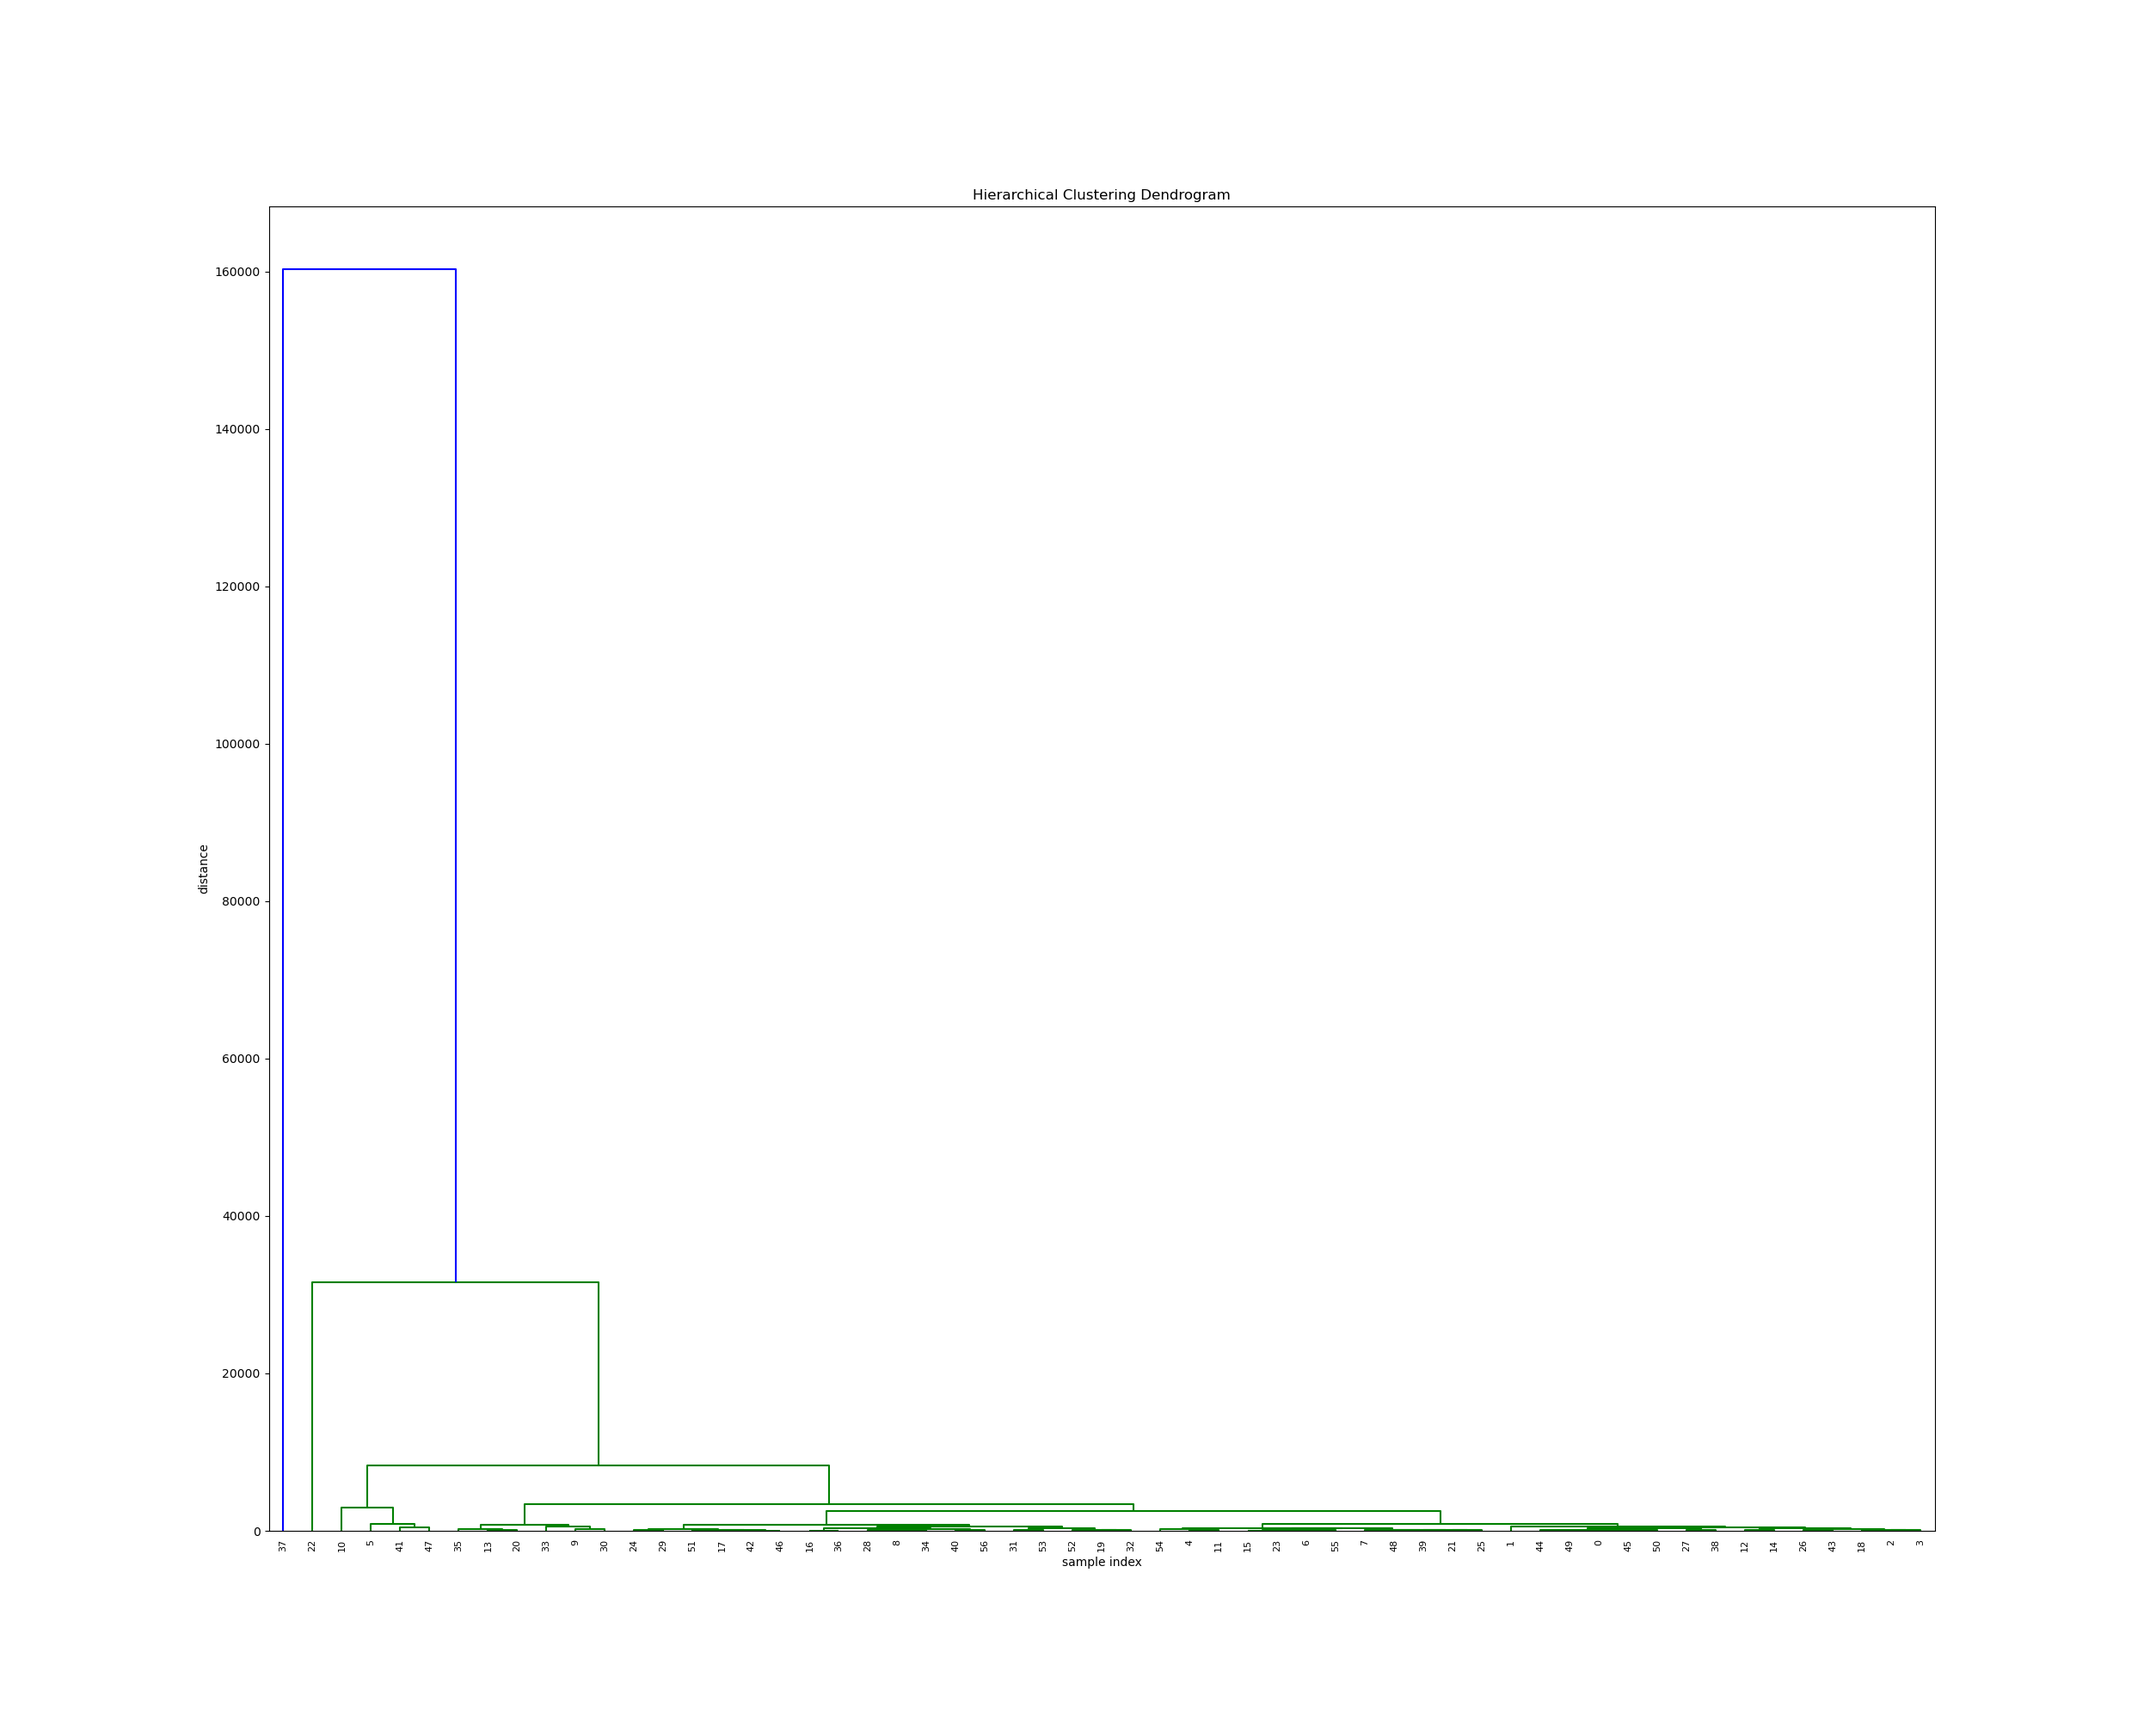
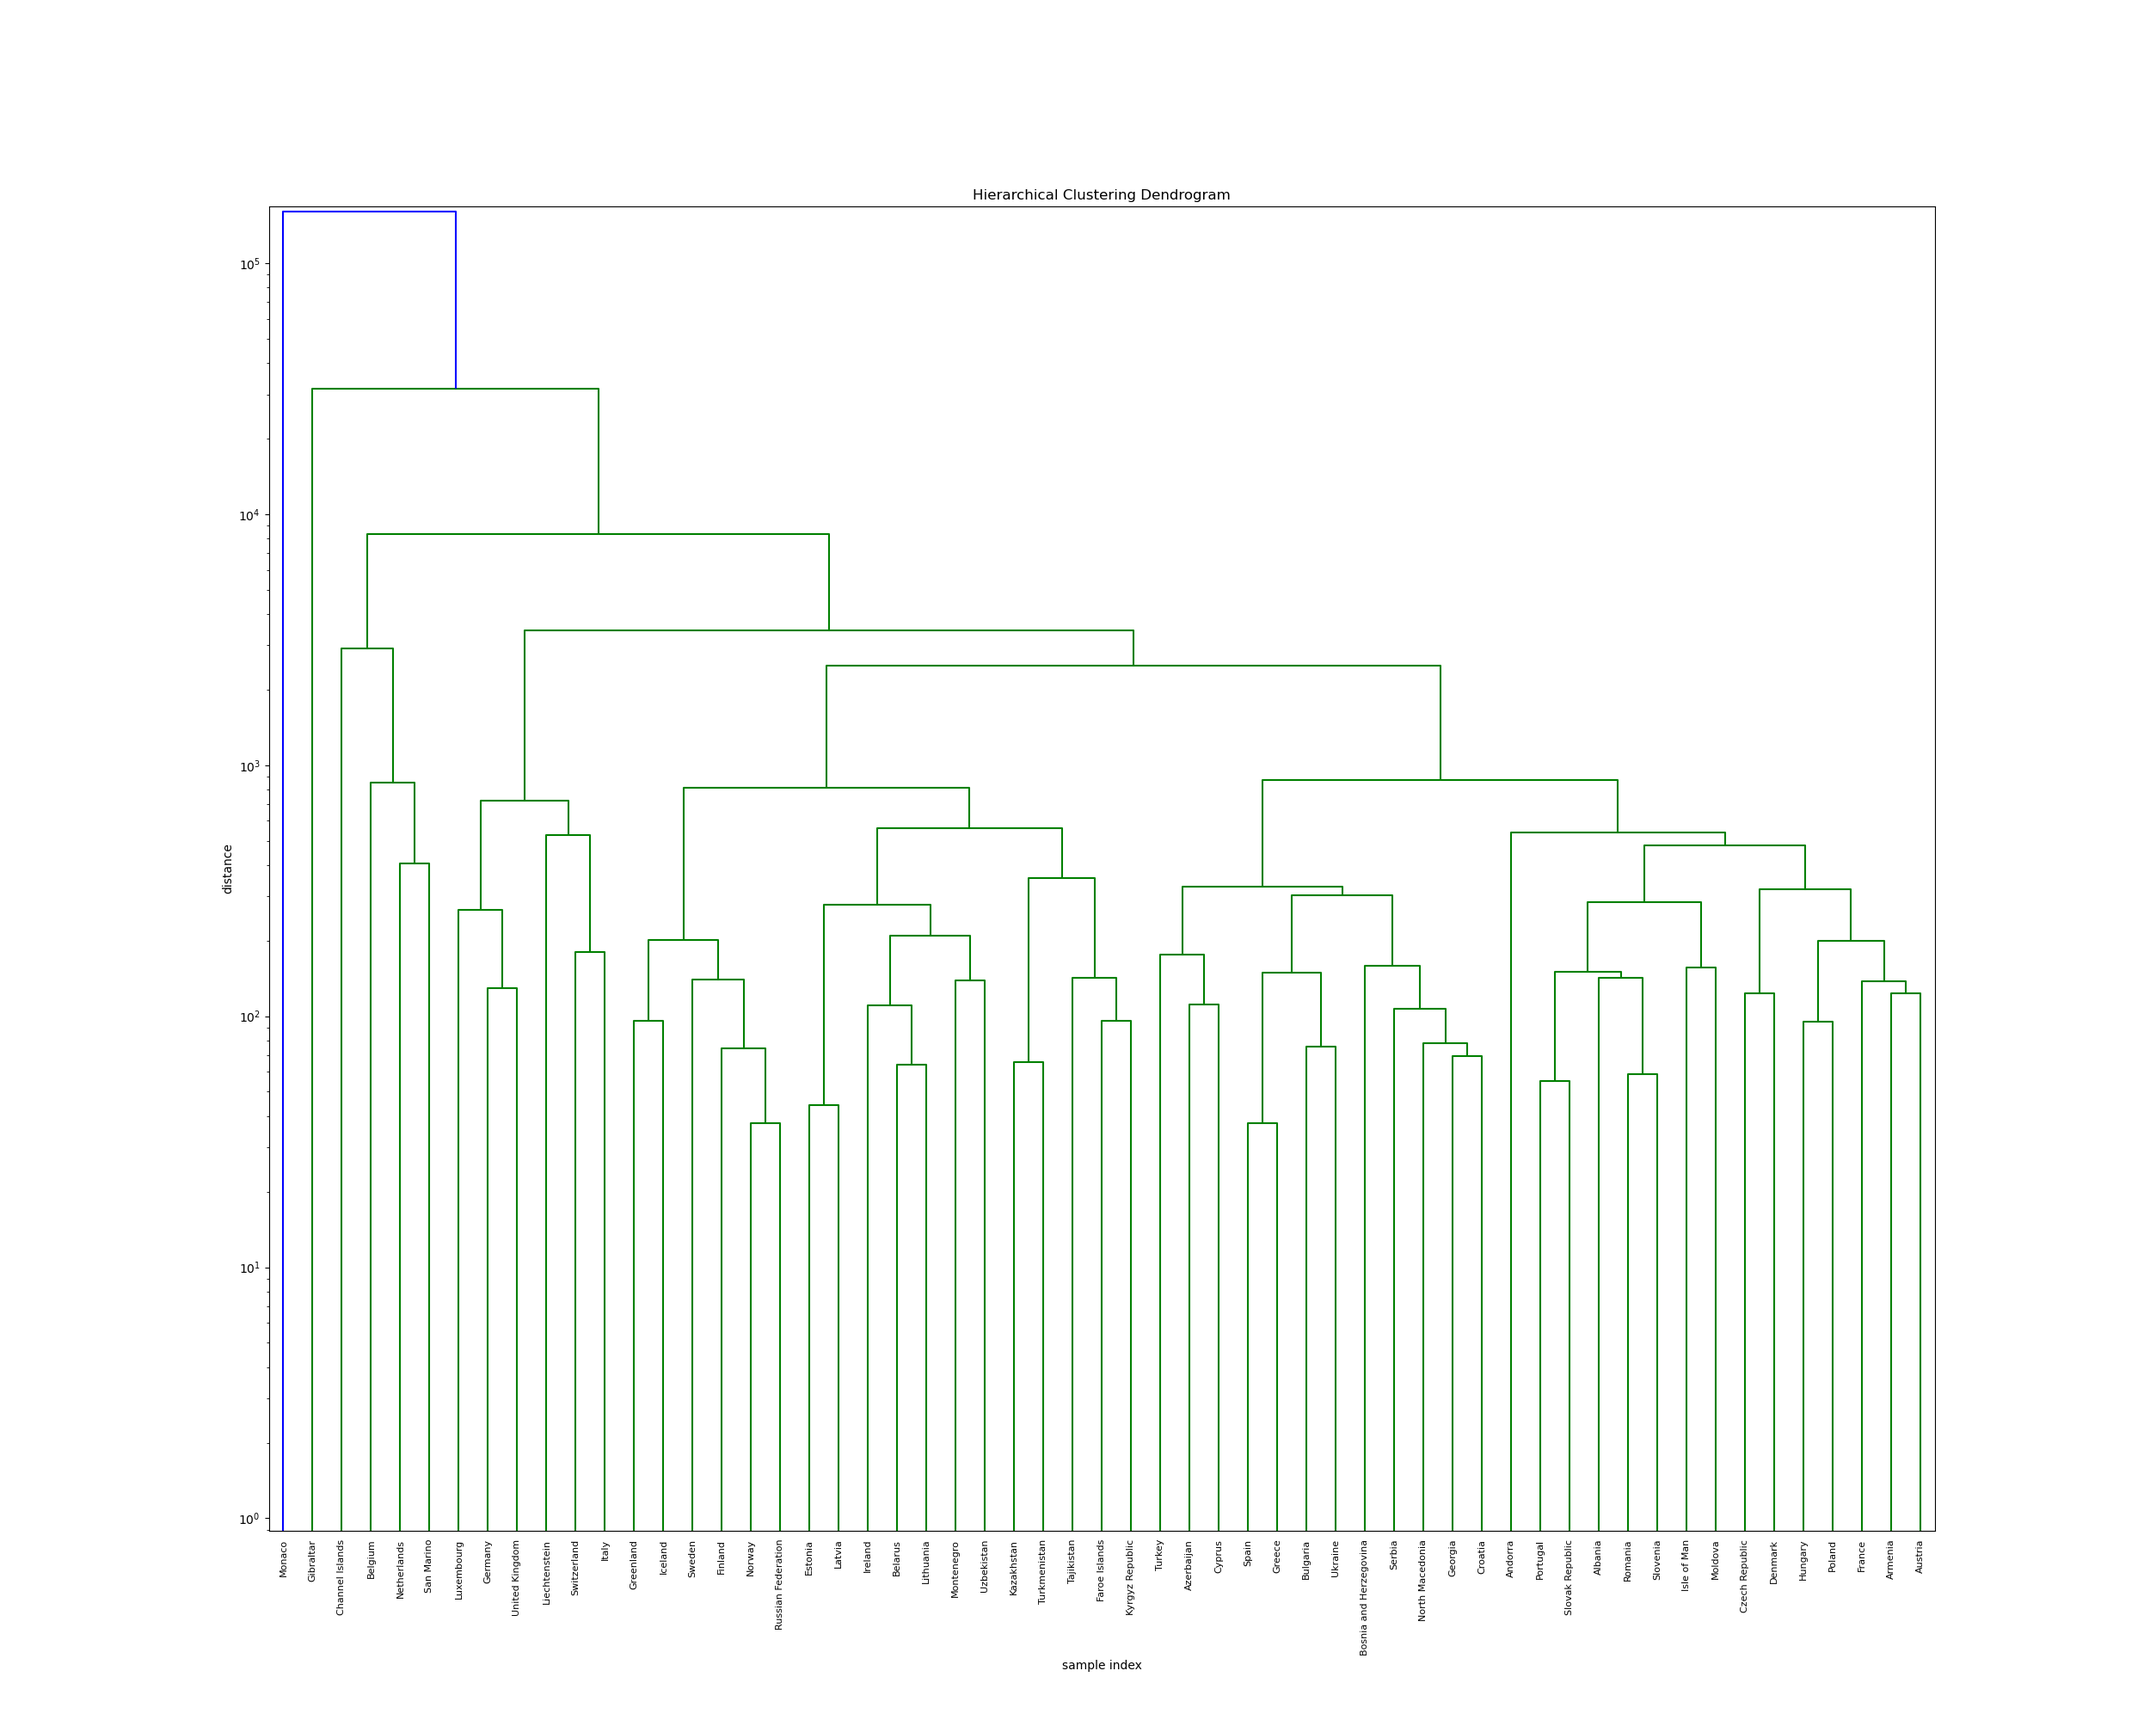
log scale and labels

diff --git a/hierarchical-example.py b/hierarchical-example.py
@@ -11,7 +11,8 @@ from scipy.spatial.distance import pdist
 import numpy as np
 
 all_countries = WorldBankDataLoader().all_countries()
-europe_and_central_asia_countries = {country['name']:None for country in all_countries if country['region']['id'] == 'ECS'}
+europe_and_central_asia_countries = {country['name']: None for country in all_countries if
+                                     country['region']['id'] == 'ECS'}
 for country_name in europe_and_central_asia_countries:
     country_data_path = os.path.join("demography", "downloaded_countries", country_name + ".csv")
     europe_and_central_asia_countries[country_name] = pandas.read_csv(country_data_path)
@@ -21,15 +22,15 @@ for country_name in europe_and_central_asia_countries:
 NULL_PLACEHOLDER = -1
 imputer = impute.SimpleImputer(missing_values=NULL_PLACEHOLDER, strategy='mean')
 
-
 if __name__ == "__main__":
     data_per_country = {}
     for country_name in europe_and_central_asia_countries:
         data = europe_and_central_asia_countries[country_name][
-                ['Population density (people per sq. km of land area)','Urban population (% of total population)']].fillna(NULL_PLACEHOLDER)
+            ['Population density (people per sq. km of land area)', 'Urban population (% of total population)']].fillna(
+            NULL_PLACEHOLDER)
         data_per_country[country_name] = imputer.fit_transform(data)
 
-    featured_countries = [country for (country, data) in data_per_country.items() if data.shape==(60,2)]
+    featured_countries = [country for (country, data) in data_per_country.items() if data.shape == (60, 2)]
 
     X = np.array([np.array(data_per_country[country]).flatten() for country in featured_countries])
 
@@ -38,10 +39,12 @@ if __name__ == "__main__":
     plt.title('Hierarchical Clustering Dendrogram')
     plt.xlabel('sample index')
     plt.ylabel('distance')
+    plt.yscale("log")
     dendrogram(
         Z,
         leaf_rotation=90.,  # rotates the x axis labels
         leaf_font_size=8,  # font size for the x axis labels
+        labels=np.array(featured_countries)
     )
     plt.savefig("hierarchical.png")
     plt.show()
